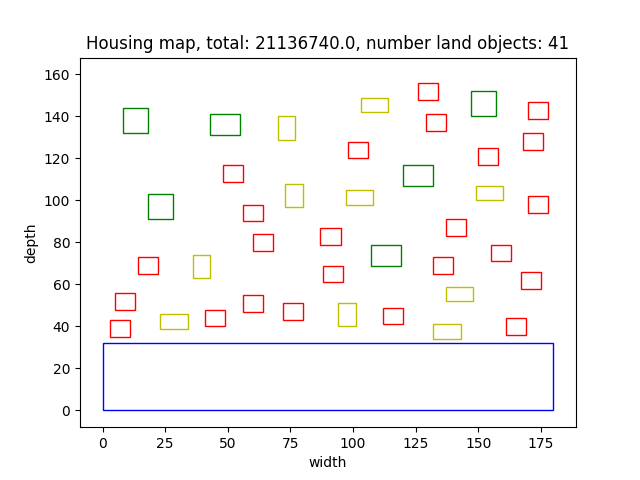
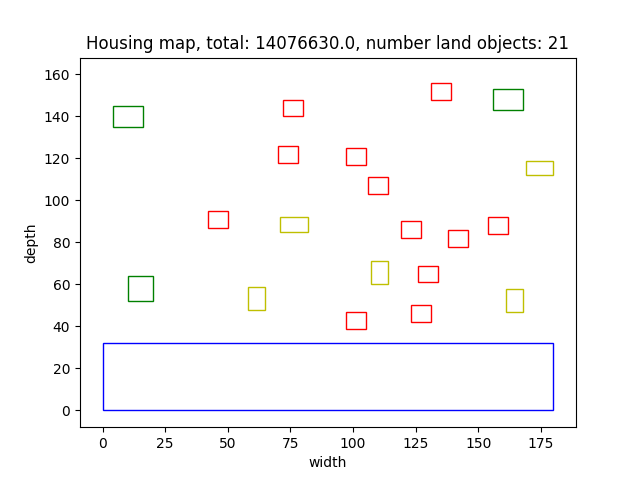
fixed hill climber

diff --git a/project_code/algorithms/hillclimberswap.py b/project_code/algorithms/hillclimberswap.py
@@ -64,59 +64,58 @@ class Hillclimber():
 
 
     def swap_with_random_rotation(self, start_map):
-
-        house1 = self.random_choice(start_map.all_land_objects)
-        house2 = self.random_choice(start_map.all_land_objects)
+        copy_start_map = deepcopy(start_map)
+        house1 = self.random_choice(copy_start_map.all_land_objects)
+        house2 = self.random_choice(copy_start_map.all_land_objects)
         while (house1.name == 'water' or house2.name == 'water' or house2.name == house1.name):
             # print("chooses again")
             if house1.name == 'water':
-                house1 = self.random_choice(start_map.all_land_objects)
+                house1 = self.random_choice(copy_start_map.all_land_objects)
             if house2.name == 'water':
-                house2 = self.random_choice(start_map.all_land_objects)
+                house2 = self.random_choice(copy_start_map.all_land_objects)
             if house2.name == house1.name:
-                house2 = self.random_choice(start_map.all_land_objects)
-
-        start_map.all_land_objects.remove(house1)
-        start_map.all_land_objects.remove(house2)
+                house2 = self.random_choice(copy_start_map.all_land_objects)
 
         # coordinaten omwisselen
-        copy_coordinates_house2 = deepcopy(house2.bottom_left)
-        new_coordinates_house1 = house1.bottom_left
-        new_coordinates_house2 = copy_coordinates_house2
+        # copy_coordinates_house1 = deepcopy(house1.bottom_left)
+        # new_coordinates_house1 = house2.bottom_left
+        # new_coordinates_house2 = copy_coordinates_house1
 
-
+        copy_start_map.all_land_objects.remove(house1)
+        copy_start_map.all_land_objects.remove(house2)
 
         # rotatie
         placement = random.choice(['horizontal', 'vertical'])
 
         # house 1 naar house2 locatie
-        rotation_finished = rotation(new_coordinates_house2, house1.width, house1.depth, placement, house1.free_space)
+        rotation_finished = rotation(house2.bottom_left, house1.width, house1.depth, placement, house1.free_space)
         width = rotation_finished[0]
         depth = rotation_finished[1]
         polygon = rotation_finished[2]
         polygon_free_space = rotation_finished[3]
-        coordinates_no_free_space = tuple((new_coordinates_house2[0] + house1.free_space, new_coordinates_house2[1] + house1.free_space))
+        coordinates_no_free_space = tuple((house2.bottom_left[0] + house1.free_space, house2.bottom_left[1] + house1.free_space))
 
         # maak new house object
-        house_1 = House(house1.name, width, depth, house1.price, new_coordinates_house2, polygon, house1.free_space, polygon_free_space)
+        house_1 = House(house1.name, width, depth, house1.price, house2.bottom_left, polygon, house1.free_space, polygon_free_space)
 
         #house 2 naar house 1 locatoe
-        rotation_finished = rotation(new_coordinates_house1, house2.width, house2.depth, placement, house2.free_space)
+        rotation_finished = rotation(house1.bottom_left, house2.width, house2.depth, placement, house2.free_space)
         width = rotation_finished[0]
         depth = rotation_finished[1]
         polygon = rotation_finished[2]
         polygon_free_space = rotation_finished[3]
-        coordinates_no_free_space = tuple((new_coordinates_house1[0] + house2.free_space, new_coordinates_house1[1] + house2.free_space))
+        coordinates_no_free_space = tuple((house1.bottom_left[0] + house2.free_space, house1.bottom_left[1] + house2.free_space))
 
         # maak new house object
-        house_2 = House(house2.name, width, depth, house2.price, new_coordinates_house1, polygon, house2.free_space, polygon_free_space)
-        if start_map.check_valid(house2) == True or start_map.check_valid(house1) == True:
+        house_2 = House(house2.name, width, depth, house2.price, house1.bottom_left, polygon, house2.free_space, polygon_free_space)
+        if copy_start_map.check_valid(house2) == True and copy_start_map.check_valid(house1) == True:
+            copy_start_map.all_land_objects.append(house_2)
+            copy_start_map.all_land_objects.append(house_1)
+            # print("New startmap")
             # print("overlap house2")
-            return None
+            return copy_start_map
 
-        start_map.all_land_objects.append(house_2)
-        start_map.all_land_objects.append(house_1)
-
+        # print("return normal map")
         return start_map
 
 
@@ -140,7 +139,8 @@ class Hillclimber():
         
     
     def run(self, iterations, empty_graph, number_houses):
-        highest_scoring_map = Randomise(empty_graph, number_houses, 500).winner
+        highest_scoring_map = Randomise(empty_graph, number_houses, 400).winner
+        print(highest_scoring_map.total)
         highest_score = 0
 
         for n in range(iterations):
@@ -148,13 +148,16 @@ class Hillclimber():
 
             #swapped_map = self.swap(copy_highest_scoring_map)
             swapped_map = self.swap_with_random_rotation(copy_highest_scoring_map)
-            if swapped_map == None:
-                continue
+            # if swapped_map == None:
+            #     print("false")
+            #     continue
             
             swapped_map.calculate_distance(swapped_map.all_land_objects)
             value_swapped_map = (swapped_map.calculate_price(swapped_map.all_land_objects))
             
             if value_swapped_map > highest_scoring_map.total :
                 highest_scoring_map = swapped_map
+            
+            
 
         return highest_scoring_map

diff --git a/main.py b/main.py
@@ -31,21 +31,21 @@ if __name__ == "__main__":
     # visualise(winner_graph.winner.all_land_objects, winner_graph.winner.total, len(winner_graph.winner.all_land_objects))
 
     # # --------------------------- Hillclimber swap ---------------------------
-    # empty_graph = Land(f"data/{wijk_number}.csv")
-    # winner = Hillclimber(empty_graph, number_of_houses, 1000)
-    # visualise(winner.winner.all_land_objects, winner.winner.total, len(winner.winner.all_land_objects))
+    empty_graph = Land(f"data/{wijk_number}.csv")
+    winner = Hillclimber(empty_graph, number_of_houses, 1000)
+    visualise(winner.winner.all_land_objects, winner.winner.total, len(winner.winner.all_land_objects))
 
 
     # --------------------------- Genetic ---------------------------
-    empty_graph = Land(f"data/{wijk_number}.csv")
-    winner_graph = Genetic(empty_graph, number_of_houses, 200)
+    # empty_graph = Land(f"data/{wijk_number}.csv")
+    # winner_graph = Genetic(empty_graph, number_of_houses, 200)
 
-    counter = 0
-    for land_object in winner_graph.winner.all_land_objects:
-        if land_object.name != 'water':
-            counter += 1
+    # counter = 0
+    # for land_object in winner_graph.winner.all_land_objects:
+    #     if land_object.name != 'water':
+    #         counter += 1
 
-    visualise(winner_graph.winner.all_land_objects, winner_graph.winner.total, f"Number of houses: {counter}")
+    # visualise(winner_graph.winner.all_land_objects, winner_graph.winner.total, f"Number of houses: {counter}")
     
 
     # # --------------------------- Hill Climber  --------------------------

diff --git a/project_code/classes/land.py b/project_code/classes/land.py
@@ -101,6 +101,22 @@ class Land():
                 self.total += house.price
         return self.total
 
+    def check_valid(land, house):
+        '''
+        function to check for overlap (doesn't append land_objects)
+        '''
+        # for the genetic algorithm, we don't want to append as we'll get endless copies of houses we've moved
+        if not house.check_bounds(land.width, land.depth):
+            return False
+        # checks all land objects if overlap return true
+        for land_object in land.all_land_objects:
+            if land_object.name != 'water':
+                if house.polygon_free_space.intersects(land_object.polygon) == True or land_object.polygon_free_space.intersects(house.polygon_free_space) == True:
+                    return False     
+            elif land_object.name == 'water':
+                if land_object.polygon.intersects(house.polygon) == True:
+                    return False
+        return True
 
 
  
